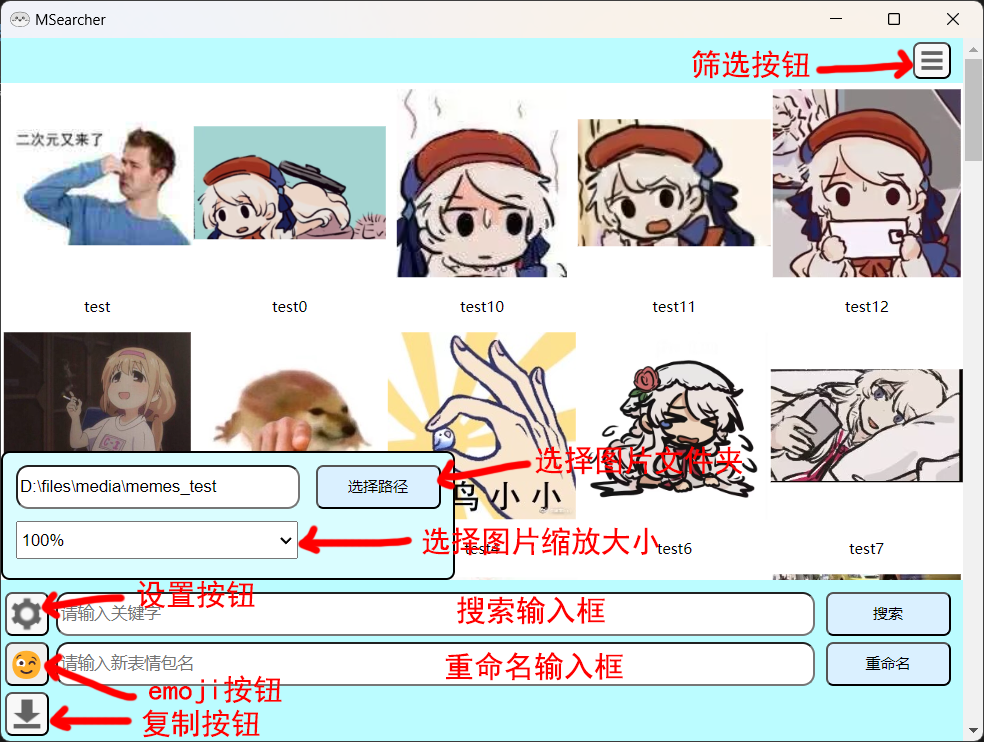
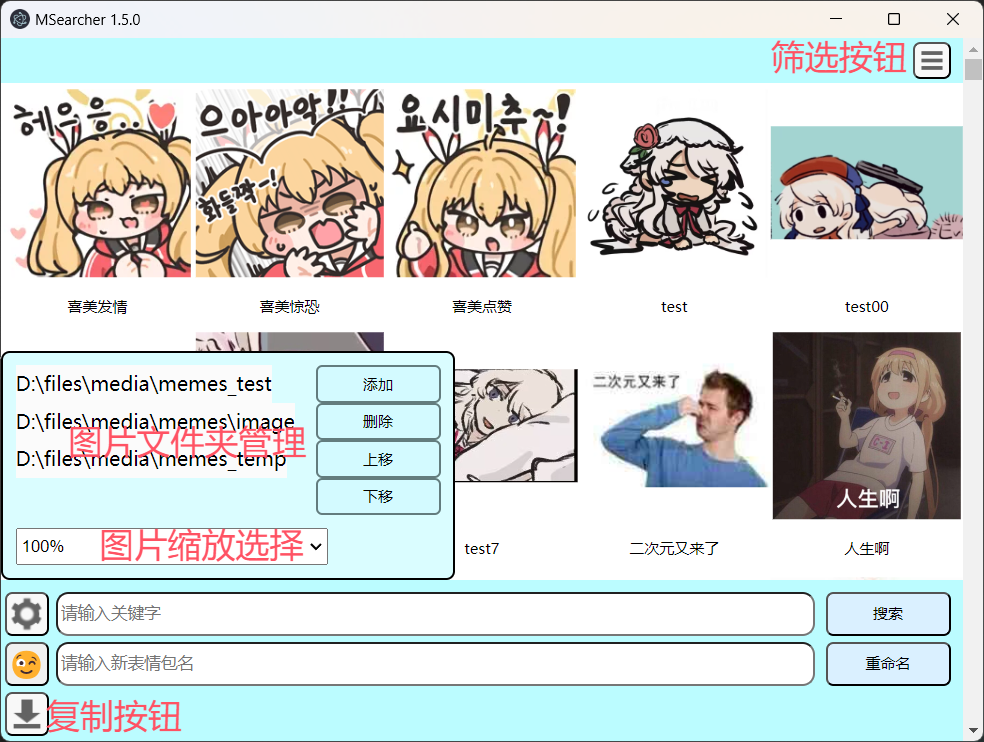
修改文档

diff --git a/index.html b/index.html
@@ -5,7 +5,7 @@
     <meta charset="UTF-8">
     <meta name="viewport" content="width=device-width, initial-scale=1.0">
     <meta http-equiv="Content-Security-Policy" content="default-src 'self'; script-src 'self'">
-    <title>MSearcher</title>
+    <title>MSearcher 1.5.0</title>
     <link rel="stylesheet" href="./style/root.css">
     <link rel="stylesheet" href="./style/image.css">
     <link rel="stylesheet" href="./style/topBar.css">

diff --git a/renderer/pathConfig.js b/renderer/pathConfig.js
@@ -46,7 +46,7 @@ removePathBtn.addEventListener('click', async () => {
 });
 
 async function savePathOrder() {
-    const pathDivs = pathListDiv.querySelectorAll('.path-item');    
+    const pathDivs = pathListDiv.querySelectorAll('.path-item');
     const pathList = [];
     pathDivs.forEach((pathDiv, index) => {
         pathList.push(pathDiv.innerText);

diff --git a/README.md b/README.md
@@ -46,11 +46,13 @@
 
 ### 安装
 
-从 [releases](https://github.com/Jacken-Wu/MSearcher/releases) 下载最新版本的安装包，解压并运行 exe 安装即可。
+方式一：从 [releases](https://github.com/Jacken-Wu/MSearcher/releases) 下载最新版本的安装包，运行 exe 安装即可。
+
+方式二：从 [releases](https://github.com/Jacken-Wu/MSearcher/releases) 下载最新版本的免安装版本压缩包，解压即可用。
 
 ### 更新
 
-从 [releases](https://github.com/Jacken-Wu/MSearcher/releases) 下载最新版本的安装包，解压并运行 exe 覆盖安装即可。
+覆盖安装即可。
 
 ### 卸载
 
@@ -67,9 +69,10 @@
 
 ## 待实现功能
 
-* [ ] 递归显示子文件夹内图片
-* [ ] 多文件夹管理
-* [ ] Shift 多选图片
+* [x] 递归显示子文件夹内图片
+* [x] 多文件夹管理
+* [x] Shift 多选图片
+* [ ] 其他
 
 ## 寄语
 
@@ -80,6 +83,12 @@
 ![meme](./img/meme.jpg)
 
 ## 新版本更新内容
+
+### 1.5.0
+
+1. 新增递归显示子文件夹内图片功能；
+2. 新增 `Shift+鼠标左键` 多选图片功能；
+3. 新增多文件夹管理功能。
 
 ### 1.4.2
 

diff --git a/docs/how_to_use.md b/docs/how_to_use.md
@@ -28,9 +28,11 @@
 
 点击左下角的`设置按钮`，打开设置页面。
 
-### 选择图片文件夹
+### 图片文件夹管理
 
-点击`选择路径`按钮，选择你要使用的图片文件夹（你存放图片的文件夹）。
+点击`添加`按钮，选择你要添加的图片文件夹。
+
+选中左侧文件夹，点击`删除`按钮，可以删除该文件夹；点击`上移`或`下移`按钮，可以调整文件夹的顺序。
 
 ### 选择图片缩放大小
 
@@ -40,7 +42,7 @@
 
 ## 选择图片
 
-点击`鼠标左键`，可以选择单张图片。通过`ctrl+鼠标左键`可以选择多张图片。
+点击`鼠标左键`，可以选择单张图片。通过`ctrl+鼠标左键`或`shift+鼠标左键`可以选择多张图片。
 
 ## 筛选
 
